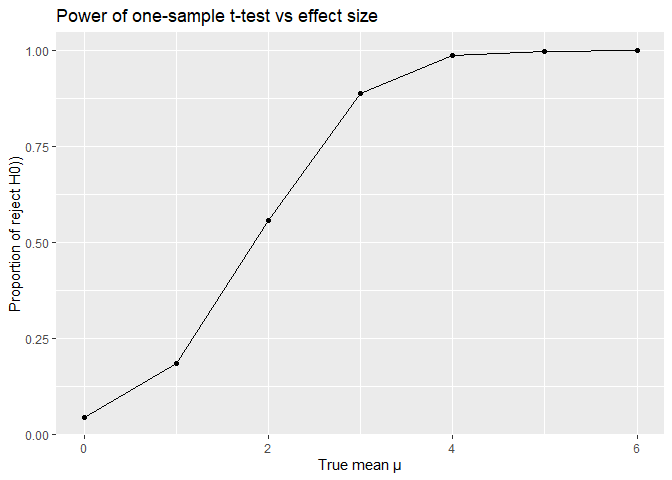
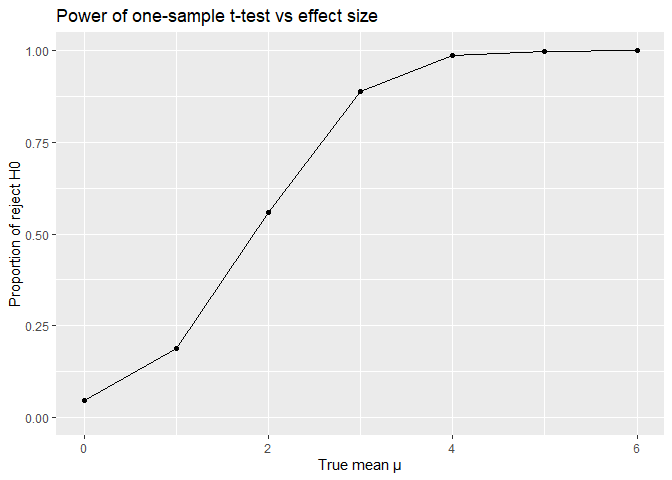
Finished Problem 2

diff --git a/p8105_hw5_rl3616.md b/p8105_hw5_rl3616.md
@@ -1,7 +1,7 @@
 p8105_hw5_rl3616
 ================
 Ruipeng Li
-2025-11-13
+2025-11-14
 
 ``` r
 library(tidyverse)
@@ -156,14 +156,22 @@ rej_prop_plot <- power_by_mu |>
   geom_point() +
   labs(
     x = "True mean μ",
-    y = "Proportion of reject H0))",
+    y = "Proportion of reject H0",
     title = "Power of one-sample t-test vs effect size"
-  )
+  ) +
+  ylim(0,1)
 
 rej_prop_plot
 ```
 
 ![](p8105_hw5_rl3616_files/figure-gfm/unnamed-chunk-5-1.png)<!-- -->
+
+When μ = 0, H₀ is true, and the rejection rate is approximately 0.05
+(which is α).
+
+The further μ is from 0 (in this case, increasing in the positive
+direction), the larger the effect size, the easier it is for the t-test
+to detect differences, and the higher the power until it reach to 1.
 
 #### mu estimate plot
 
@@ -202,3 +210,13 @@ mu_estimate_plot
 ```
 
 ![](p8105_hw5_rl3616_files/figure-gfm/unnamed-chunk-6-1.png)<!-- -->
+Across all samples, the average sample mean (μ̂) is approximately equal
+to the true μ, so the red line roughly falls on y=x.
+
+However, if we only consider samples with p \< 0.05, only the samples
+with “larger differences” are retained, while samples with smaller
+differences are excluded.
+
+This causes the μ̂ of the retained samples to tend to be slightly larger
+than the true μ, so the blue line will appear on y=x, especially when
+the true μ is relatively small.
